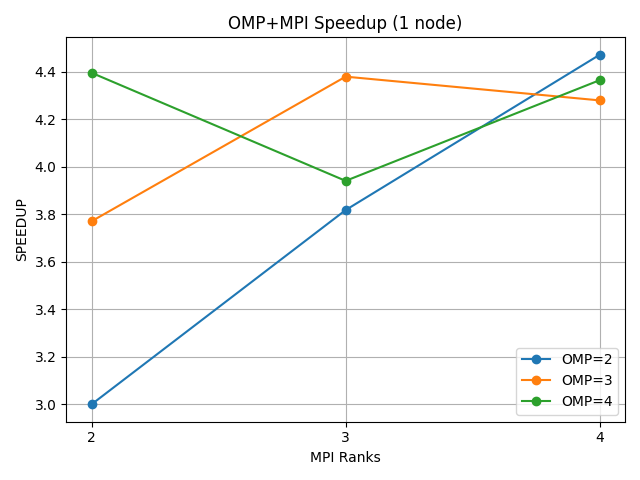
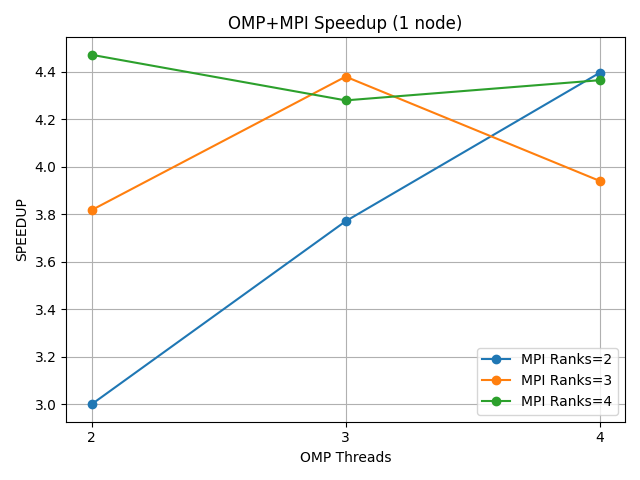
fix grafici invertendo mpi ranks e omp threads

diff --git a/analysis.py b/analysis.py
@@ -145,32 +145,32 @@ def plot_heatmap(df, metric, title, figname):
     ax.set_ylabel("MPI Ranks")
 
     plt.tight_layout()
-    plt.savefig(f"{PLOT_DIR}{figname}")
+    plt.savefig(f"{PLOT_DIR}/{figname}")
     plt.close()
 
 
-def plot_iso_omp(df, coly, title, savepath):
+def plot_iso_mpi(df, coly, title, figname):
 
     plt.figure()
 
-    for omp in sorted(df["OMP_THREADS"].unique()):
-        sub = df[df["OMP_THREADS"] == omp].sort_values("MPI_RANKS")
+    for rank in sorted(df["MPI_RANKS"].unique()):
+        sub = df[df["MPI_RANKS"] == rank].sort_values("OMP_THREADS")
 
         plt.plot(
-            sub["MPI_RANKS"],
+            sub["OMP_THREADS"],
             sub[coly],
             marker="o",
-            label=f"OMP={omp}"
+            label=f"MPI Ranks={rank}"
         )
 
-    plt.xticks(sorted(df["MPI_RANKS"].unique()))
+    plt.xticks(sorted(df["OMP_THREADS"].unique()))
     plt.title(title)
-    plt.xlabel("MPI Ranks")
+    plt.xlabel("OMP Threads")
     plt.ylabel(coly)
     plt.grid(True)
     plt.legend()
     plt.tight_layout()
-    plt.savefig(savepath)
+    plt.savefig(f"{PLOT_DIR}/{figname}")
     plt.close()
 
 if __name__ == "__main__":
@@ -255,8 +255,16 @@ if __name__ == "__main__":
     plot_heatmap(pipe_mpi_mean, "EFFICIENCY", "MPI+OMP Efficiency (1 node)", "heatmap_eff_local.png")
     plot_heatmap(pipe_mpi_mean, "THROUGHPUT_JS", "MPI+OMP Throughput (1 node)", "heatmap_through_local.png")
 
-    plot_iso_omp(pipe_mpi_mean, "SPEEDUP", "OMP+MPI Speedup (1 node)", f"{PLOT_DIR}/speedup_mpi_local.png")
-    plot_iso_omp(pipe_mpi_mean, "EFFICIENCY", "OMP+MPI Efficiency (1 node)", f"{PLOT_DIR}/eff_mpi_local.png")
-    plot_iso_omp(pipe_mpi_mean, "THROUGHPUT_JS", "OMP+MPI Throughput (1 node)", f"{PLOT_DIR}/through_mpi_local.png")
+    plot_iso_mpi(pipe_mpi_mean, "SPEEDUP", "OMP+MPI Speedup (1 node)", "speedup_mpi_local.png")
+    plot_iso_mpi(pipe_mpi_mean, "EFFICIENCY", "OMP+MPI Efficiency (1 node)", "eff_mpi_local.png")
+    plot_iso_mpi(pipe_mpi_mean, "THROUGHPUT_JS", "OMP+MPI Throughput (1 node)", "through_mpi_local.png")
+
+    plot_heatmap(pipe_mpi_cluster_mean, "SPEEDUP", "MPI+OMP Speedup (2 nodes)", "heatmap_speedup_cluster.png")
+    plot_heatmap(pipe_mpi_cluster_mean, "EFFICIENCY", "MPI+OMP Efficiency (2 nodes)", "heatmap_eff_cluster.png")
+    plot_heatmap(pipe_mpi_cluster_mean, "THROUGHPUT_JS", "MPI+OMP Throughput (2 nodes)", "heatmap_through_cluster.png")
+
+    plot_iso_mpi(pipe_mpi_cluster_mean, "SPEEDUP", "OMP+MPI Speedup (2 nodes)", "speedup_mpi_cluster.png")
+    plot_iso_mpi(pipe_mpi_cluster_mean, "EFFICIENCY", "OMP+MPI Efficiency (2 nodes)", "eff_mpi_cluster.png")
+    plot_iso_mpi(pipe_mpi_cluster_mean, "THROUGHPUT_JS", "OMP+MPI Throughput (2 nodes)", "through_mpi_cluster.png")
 
     # plot_iso_omp(pipe_mpi_cluster_mean, "SPEEDUP", "prova_mpi", f"{PLOT_DIR}/prova_mpi.png")